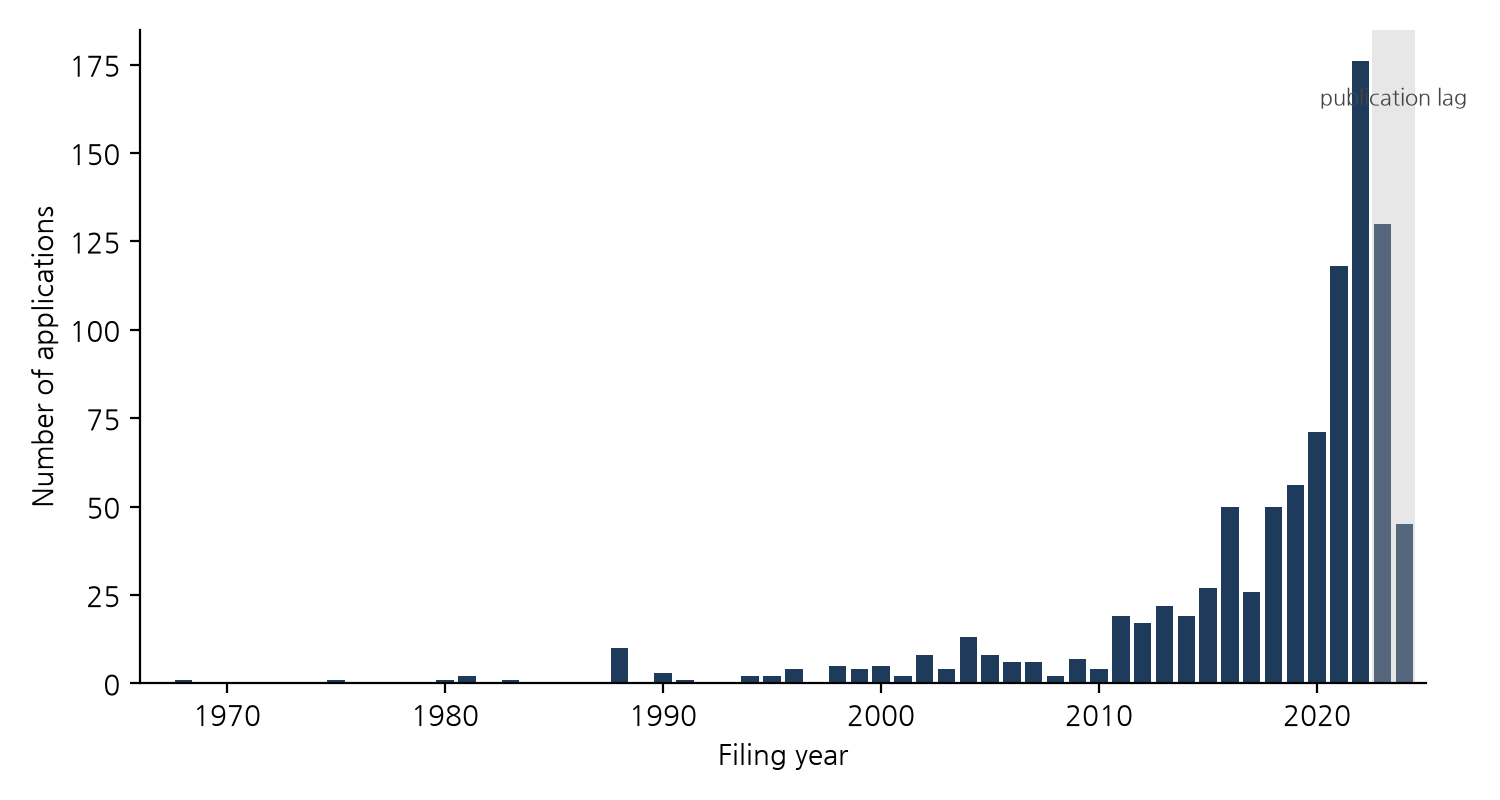
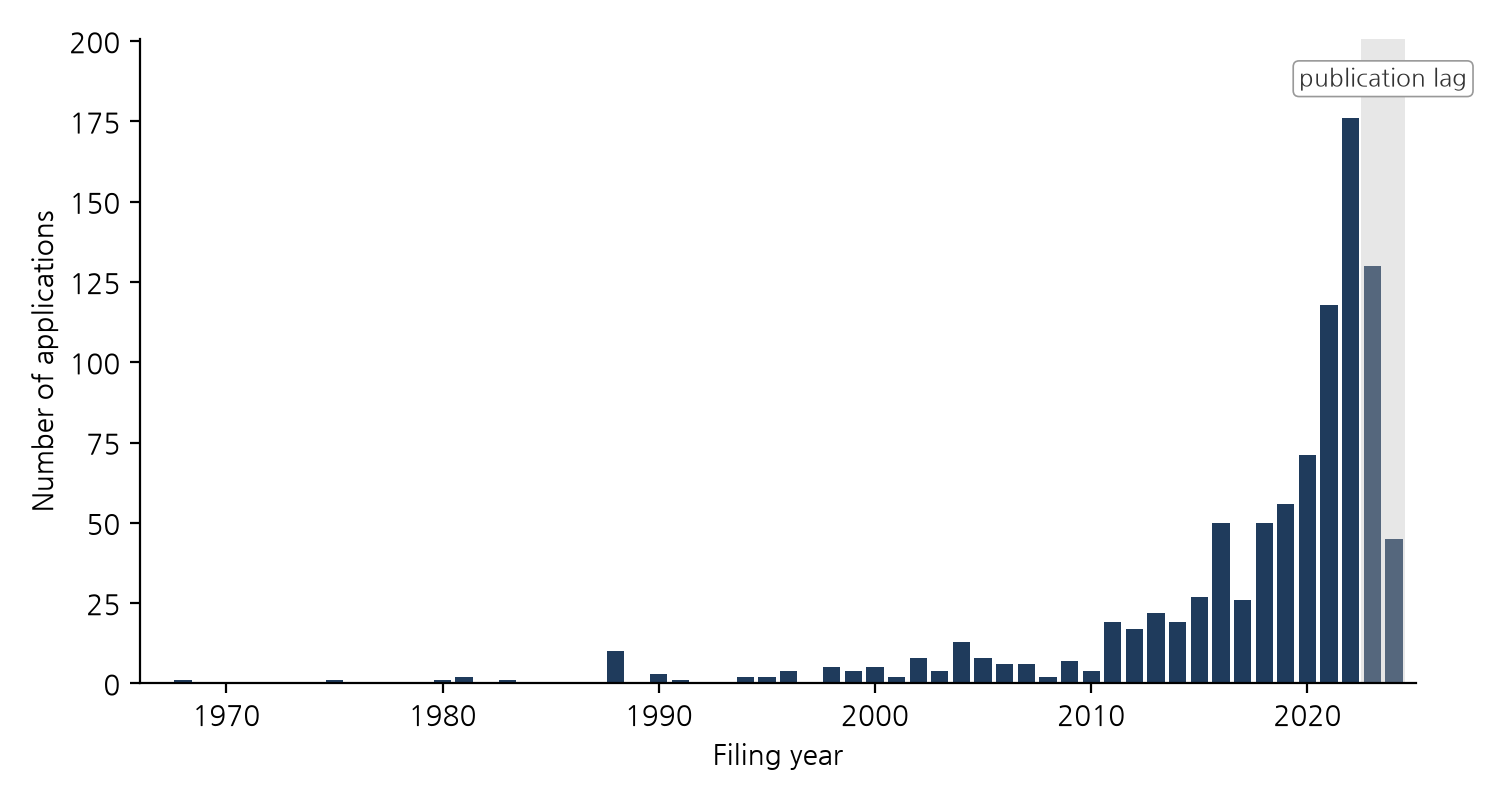
Figure 2: move the publication-lag label above the shaded band so it is not hidden by the bars
Claude-Session: https://claude.ai/code/session_01SvckvZxt3hAXTDPnm8YPEC

diff --git a/journal/tools/make_figures_v9.py b/journal/tools/make_figures_v9.py
@@ -21,7 +21,9 @@ years = list(range(min(yc), max(yc) + 1)); vals = [yc.get(y, 0) for y in years]
 fig, ax = plt.subplots(figsize=(7.5, 4))
 ax.bar(years, vals, color=NAVY, width=0.8)
 ax.set_xlabel(T('출원연도','Filing year')); ax.set_ylabel(T('출원 건수','Number of applications')); ax.set_xlim(1966, 2025)
-ax.axvspan(2022.5, 2024.5, color='#bbbbbb', alpha=0.35, lw=0); ax.text(2023.5, max(vals) * 0.93, T('공개 시차','publication lag'), ha='center', fontsize=8, color='#444')
+ax.set_ylim(0, max(vals) * 1.14)
+ax.axvspan(2022.5, 2024.5, color='#bbbbbb', alpha=0.35, lw=0)
+ax.text(2023.5, max(vals) * 1.07, T('공개 시차','publication lag'), ha='center', va='center', fontsize=8.5, color='#333', bbox=dict(boxstyle='round,pad=0.25', fc='white', ec='#999', lw=0.6))
 fig.tight_layout(); fig.savefig(f'figures/fig2_applications_by_year{SUF}.png'); plt.close(fig)
 
 # Fig 3: OLS residuals vs fitted
